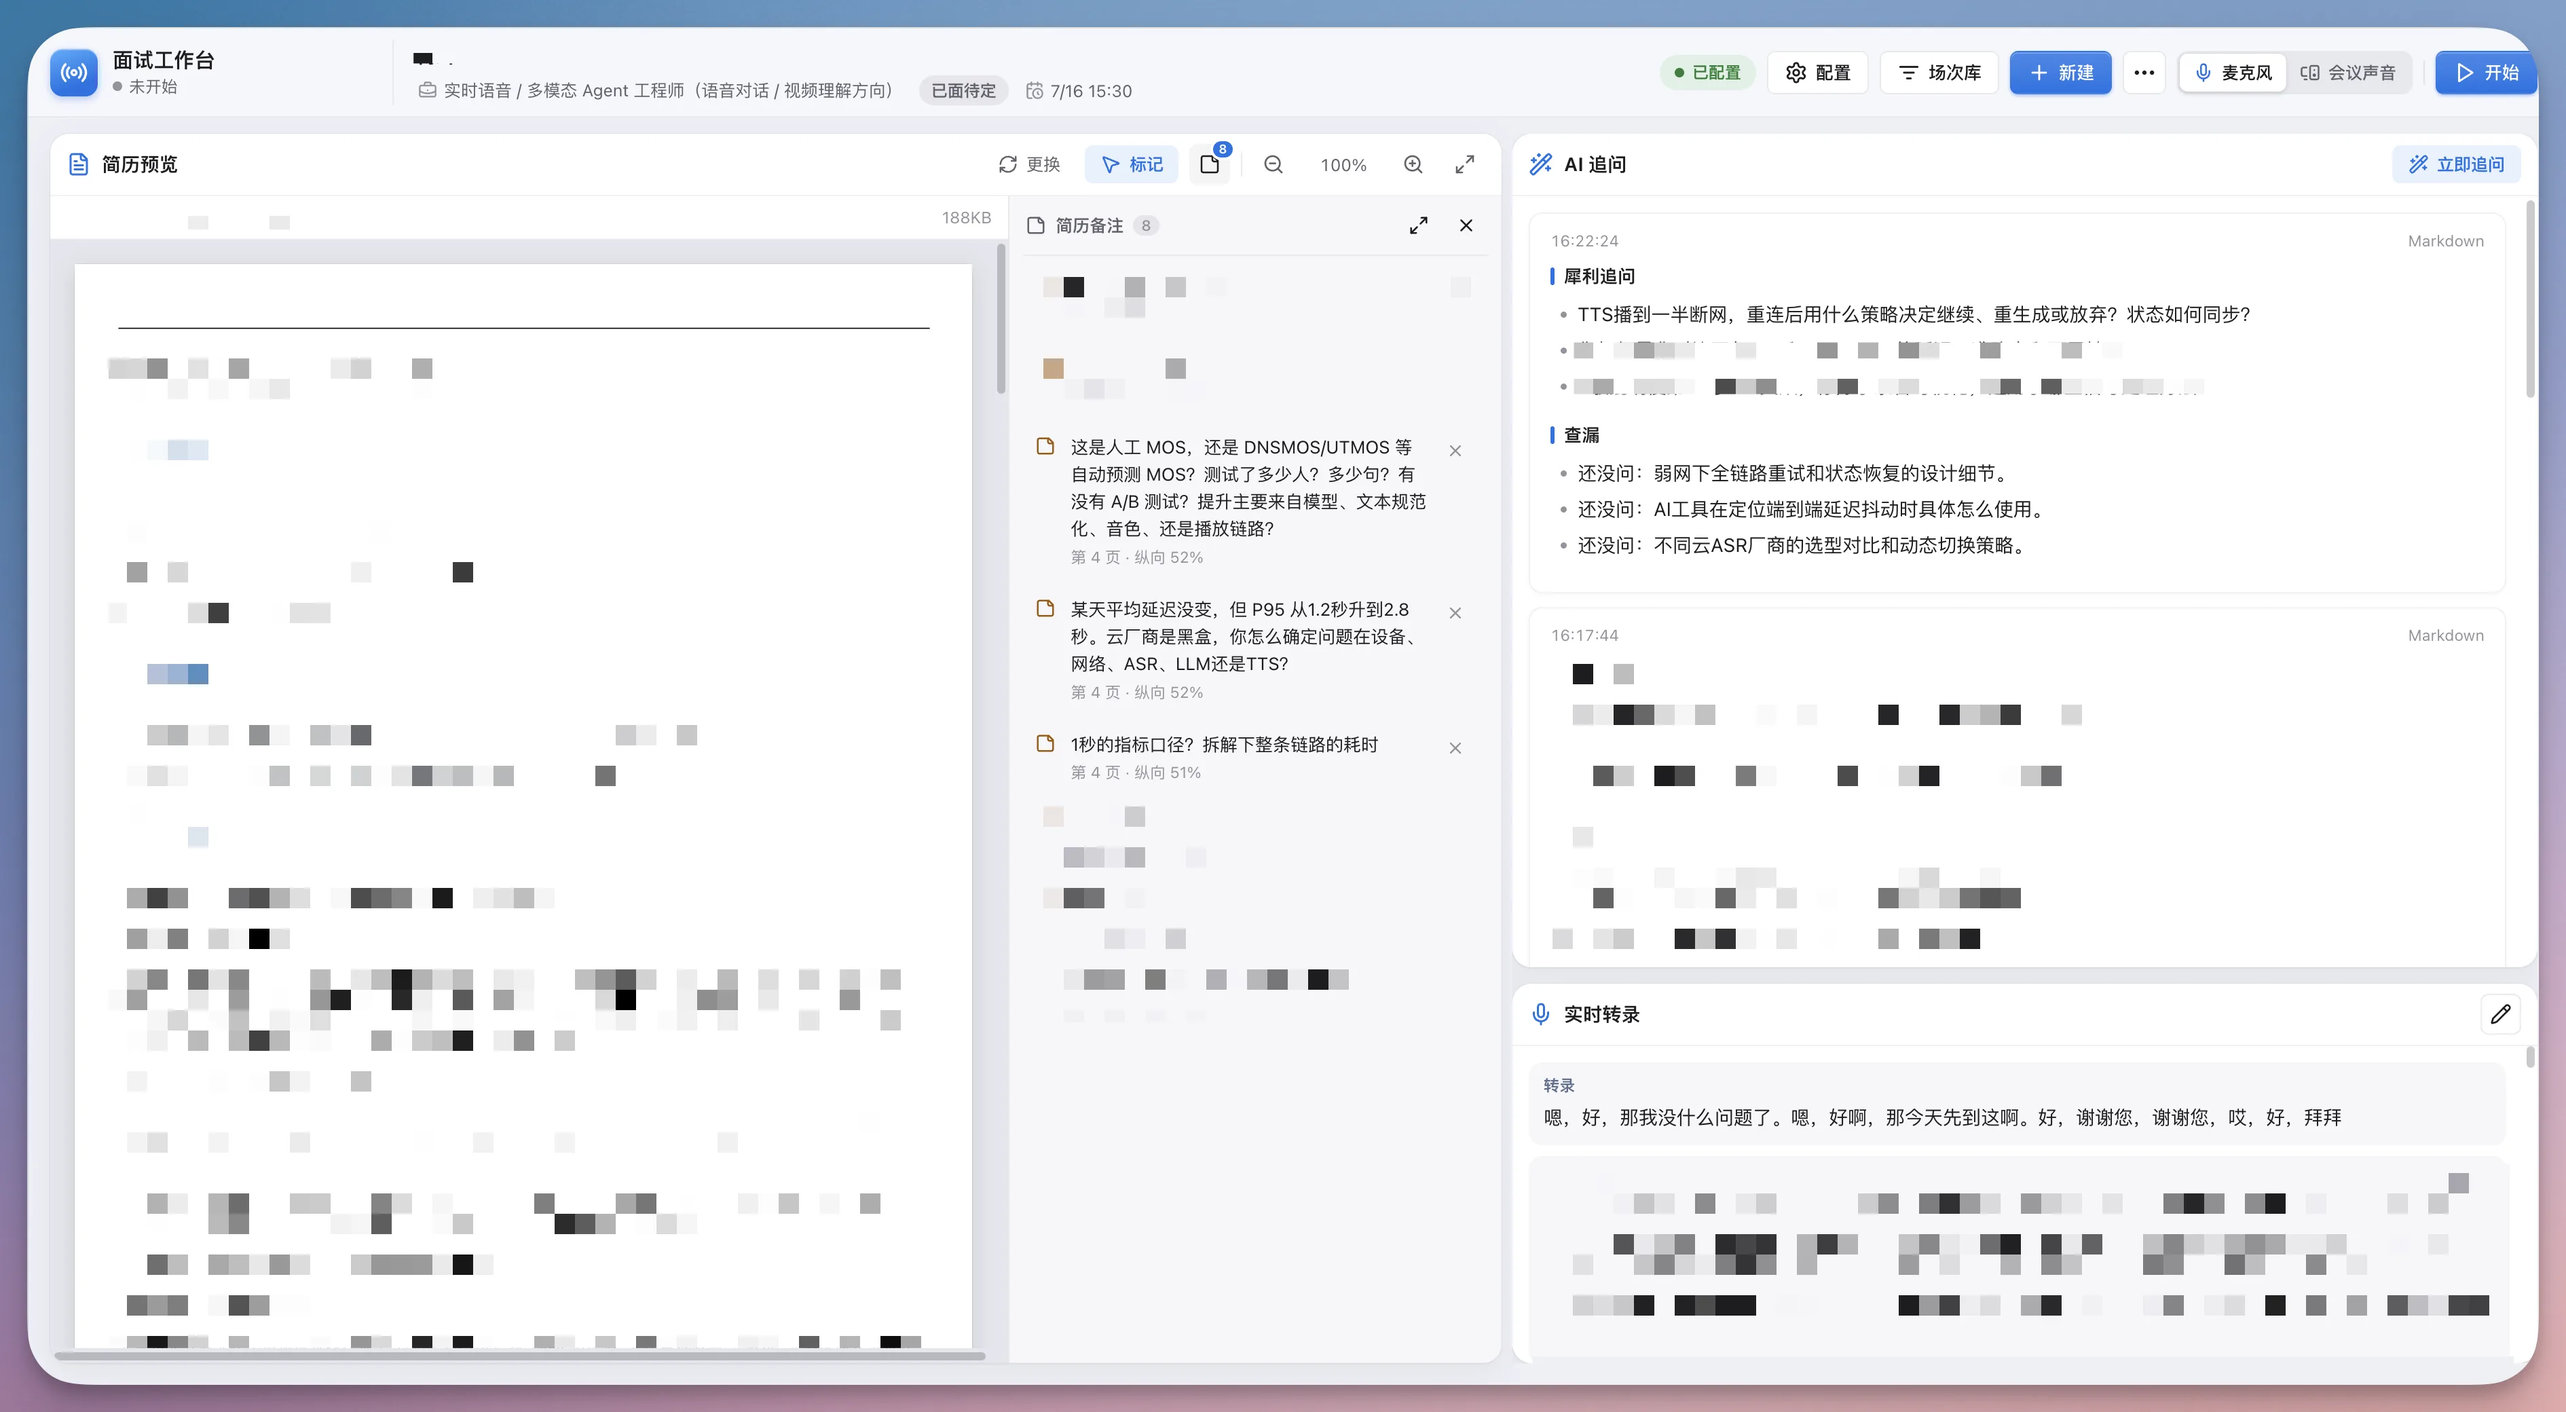
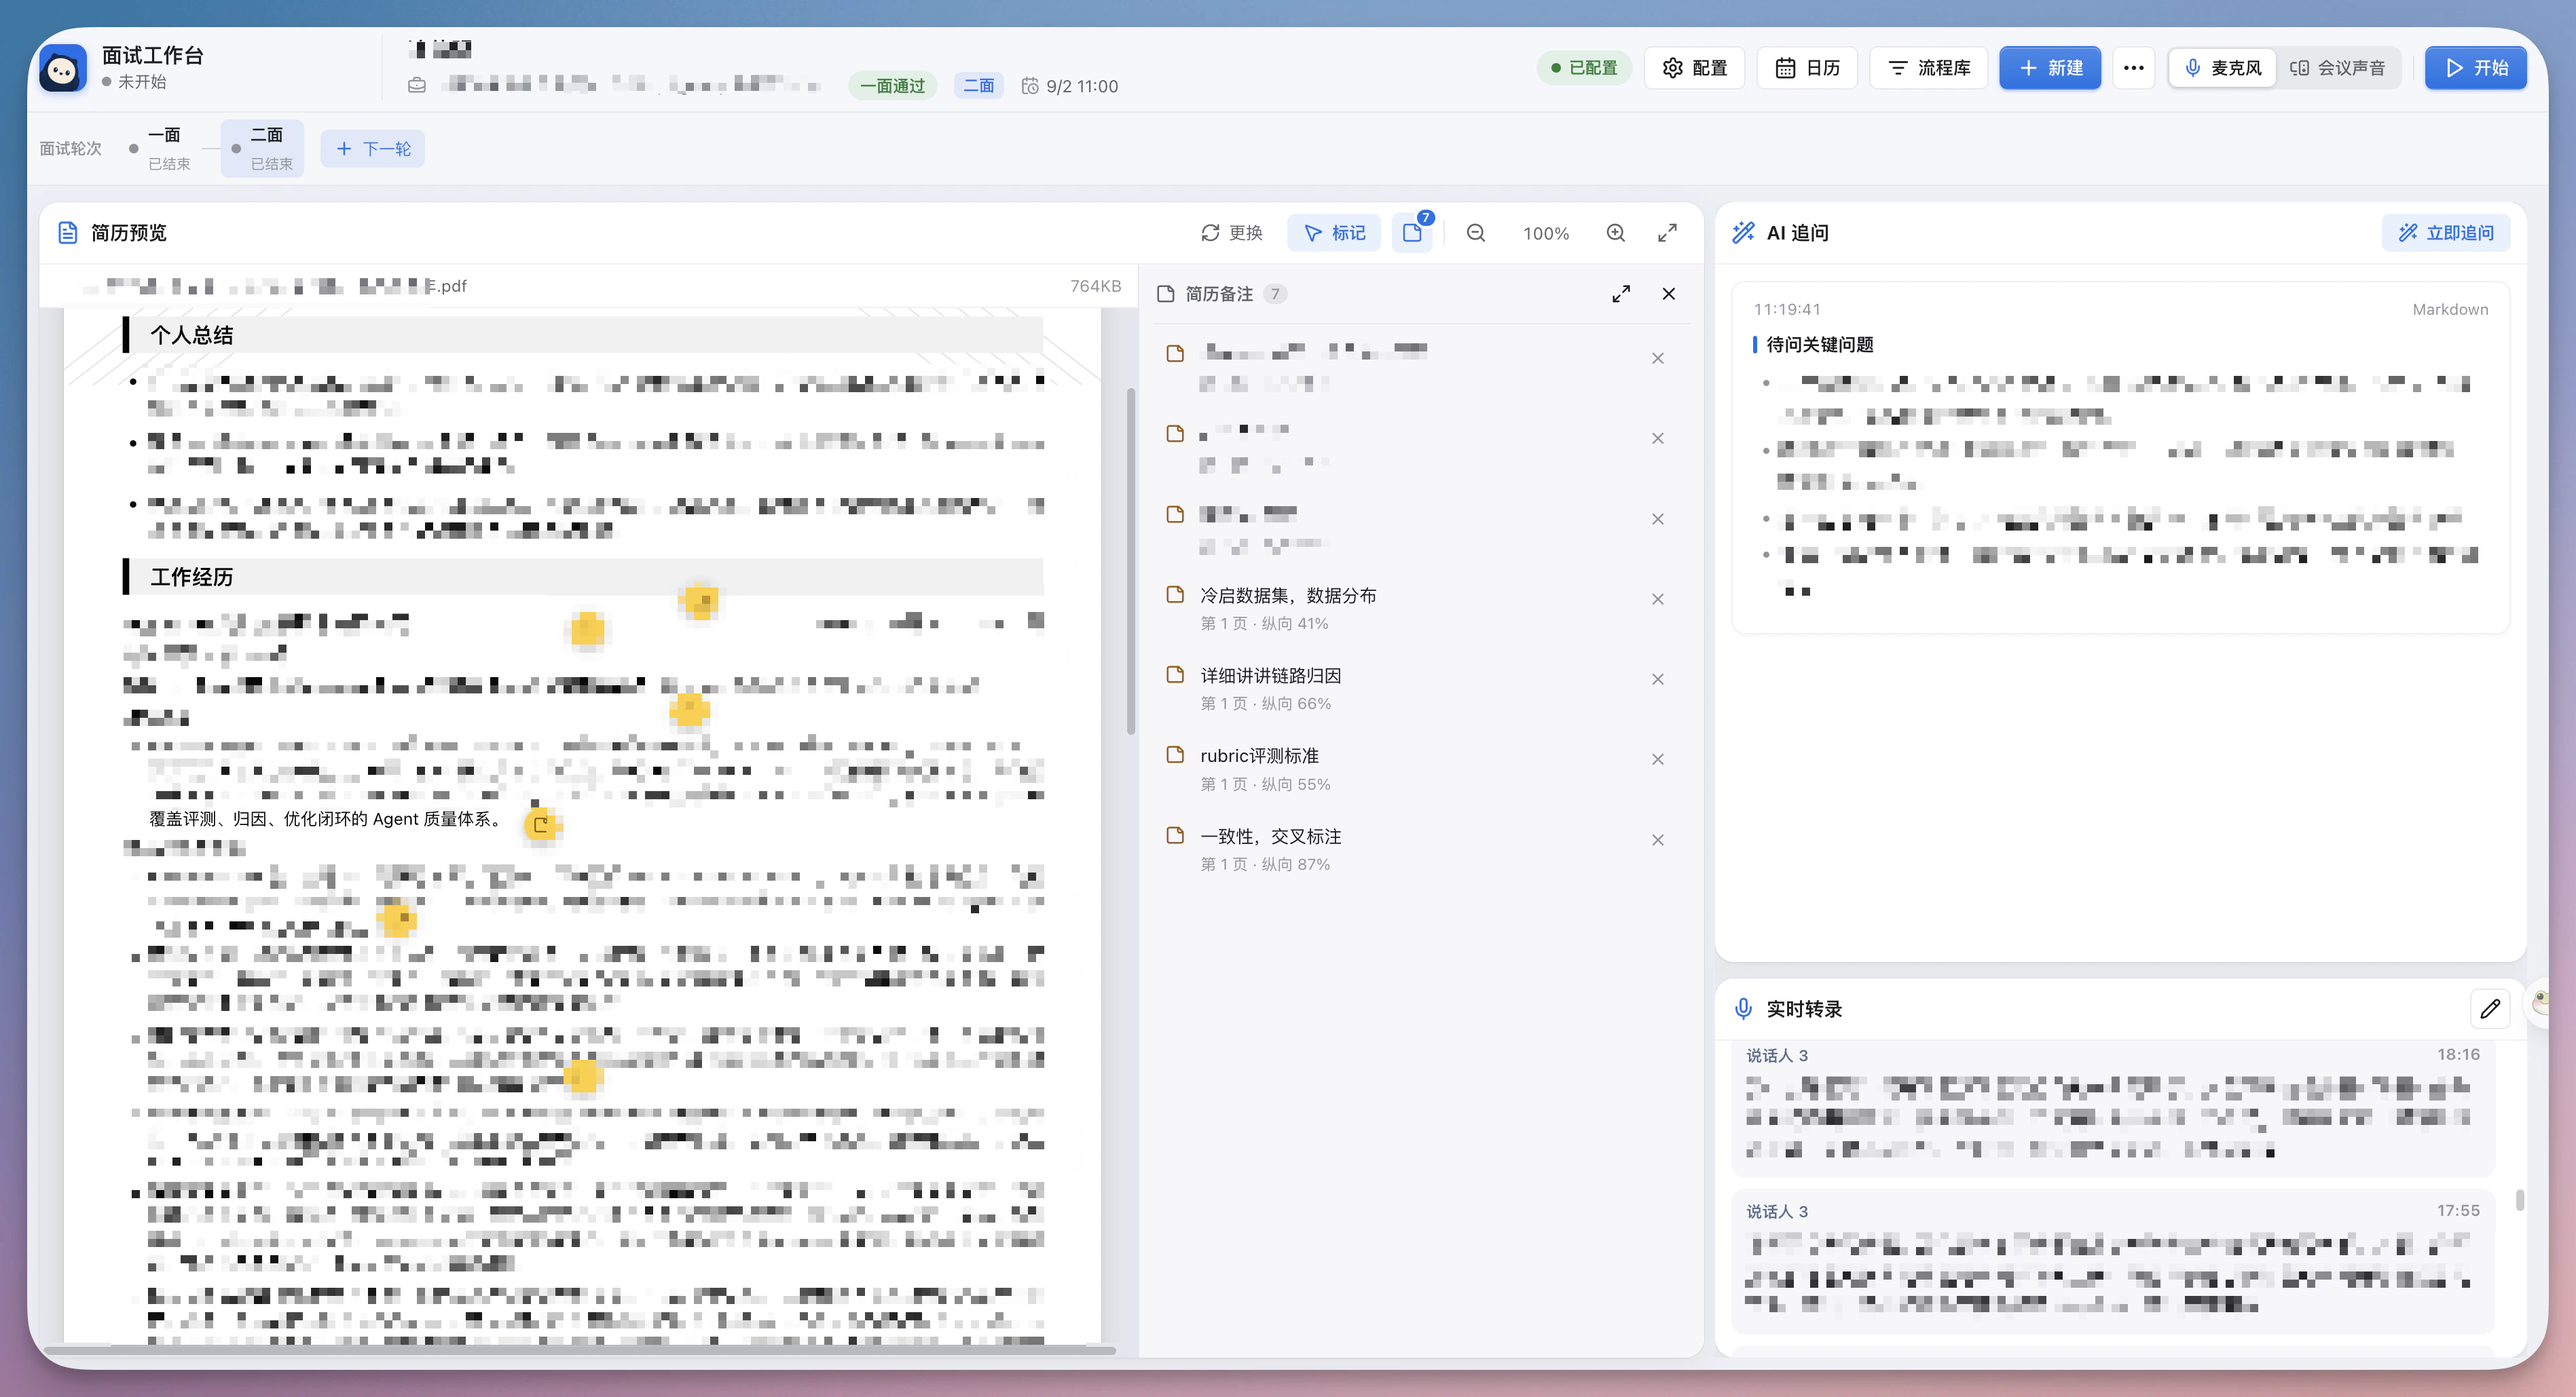
Show AI-native interview workflow in README

diff --git a/README.md b/README.md
@@ -18,19 +18,72 @@
 </p>
 
 <p align="center">
+  <a href="#工作台界面">工作台界面</a> ·
+  <a href="#ai-native-工作流">AI Native 工作流</a> ·
   <a href="#功能">功能</a> ·
   <a href="#快速开始">快速开始</a> ·
-  <a href="#ai-编程助手联动">AI 编程助手</a> ·
   <a href="#安全与隐私">安全与隐私</a>
 </p>
 
 面试工作台把浏览器采集的麦克风和会议声音发送给流式语音识别服务，在本机按应聘流程保存共享资料和多轮面试记录。面试官可以随时提交当前轮次的最新转录，让大模型生成简短的**犀利追问**和**查漏提醒**。
 
-![面试工作台界面](docs/assets/interview-workbench-macos.webp)
+## 工作台界面
 
-工作台也可以通过 MCP 与 Codex、Claude Code、WorkBuddy 等 AI 编程助手联动：AI 读取本地应聘流程和指定轮次，完成简历筛选、面试准备、新增轮次和面试总结，再把单轮或跨轮 Markdown 产物写回工作台，面试结束后不需要手动导出转录。
+简历、页面备注、AI 追问与实时转录位于同一个面试工作区。日历用于查看面试安排，流程库用于在候选人、岗位、状态和轮次之间切换。
 
-![智能面试工作闭环手绘图](docs/assets/interview-lifecycle.webp)
+<a href="docs/assets/interview-workbench-macos.webp">
+  <img src="docs/assets/interview-workbench-macos.webp" alt="面试工作台主界面：简历、备注、AI 追问与实时转录" width="100%">
+</a>
+
+<table>
+  <tr>
+    <td width="50%" align="center" valign="top">
+      <a href="docs/assets/interview-calendar.webp"><img src="docs/assets/interview-calendar.webp" alt="面试日历界面" width="100%"></a><br>
+      <strong>日历</strong><br>
+      <sub>按周或按月查看多轮面试安排</sub>
+    </td>
+    <td width="50%" align="center" valign="top">
+      <a href="docs/assets/interview-process-library.webp"><img src="docs/assets/interview-process-library.webp" alt="面试流程库界面" width="100%"></a><br>
+      <strong>流程库</strong><br>
+      <sub>按岗位、状态和更新时间管理应聘流程</sub>
+    </td>
+  </tr>
+</table>
+
+## AI Native 工作流
+
+工作台保存结构化的应聘流程、面试轮次和产物，Agent Skill 固化可复用的招聘方法，Codex、Claude Code、WorkBuddy 等 AI 编程助手负责执行。三者通过 MCP 连接，AI 读取同一份本地上下文，并把结果写回对应流程，不需要在聊天窗口和业务系统之间手动搬运。
+
+![AI 编程助手通过 MCP 参与完整面试流程](docs/assets/interview-lifecycle.webp)
+
+一次完整使用通常包含四步：
+
+<table>
+  <tr>
+    <td width="50%" align="center" valign="top">
+      <a href="docs/assets/codex-resume-screening.webp"><img src="docs/assets/codex-resume-screening.webp" alt="Codex 执行简历筛选 Skill" width="100%"></a><br>
+      <strong>1. 简历筛选</strong><br>
+      <sub>读取 JD 与简历，给出推进判断</sub>
+    </td>
+    <td width="50%" align="center" valign="top">
+      <a href="docs/assets/codex-interview-preparation.webp"><img src="docs/assets/codex-interview-preparation.webp" alt="Codex 执行面试准备 Skill" width="100%"></a><br>
+      <strong>2. 面试准备</strong><br>
+      <sub>结合筛选结果与本轮目标生成面试提纲</sub>
+    </td>
+  </tr>
+  <tr>
+    <td width="50%" align="center" valign="top">
+      <a href="docs/assets/codex-create-interview.webp"><img src="docs/assets/codex-create-interview.webp" alt="Codex 执行创建面试场次 Skill" width="100%"></a><br>
+      <strong>3. 创建场次</strong><br>
+      <sub>复用已有材料和产物，创建并回读面试轮次</sub>
+    </td>
+    <td width="50%" align="center" valign="top">
+      <a href="docs/assets/codex-interview-summary.webp"><img src="docs/assets/codex-interview-summary.webp" alt="Codex 执行面试总结 Skill" width="100%"></a><br>
+      <strong>4. 面试总结</strong><br>
+      <sub>读取转录，保存结论、完整 Q&amp;A 与跨轮交接</sub>
+    </td>
+  </tr>
+</table>
 
 ## 功能
 
